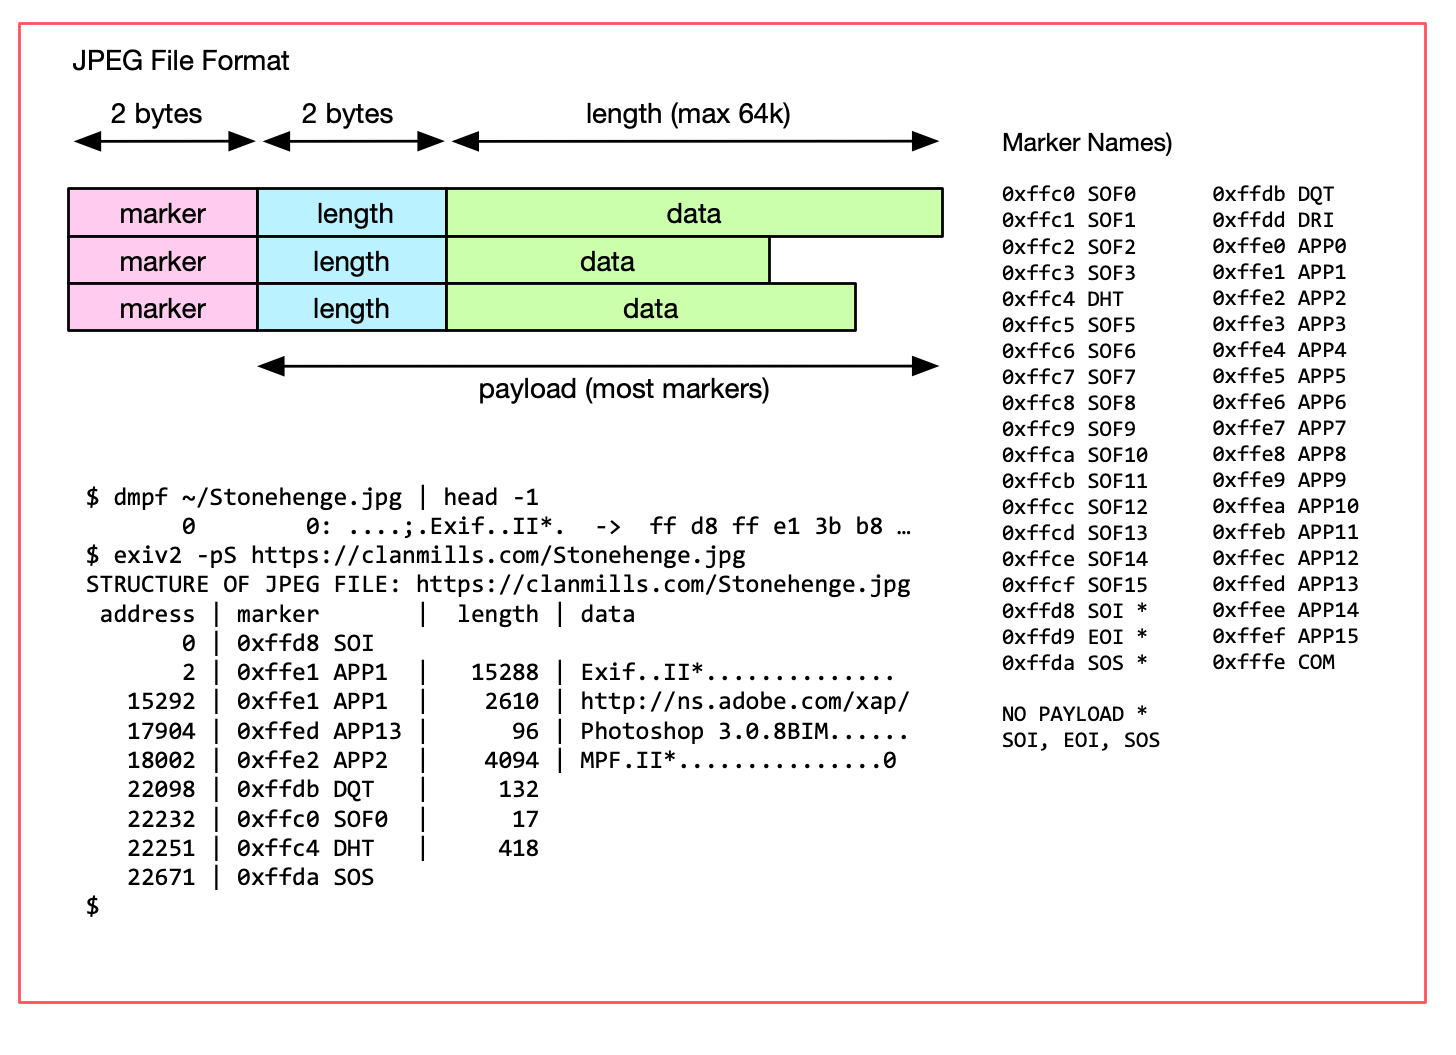
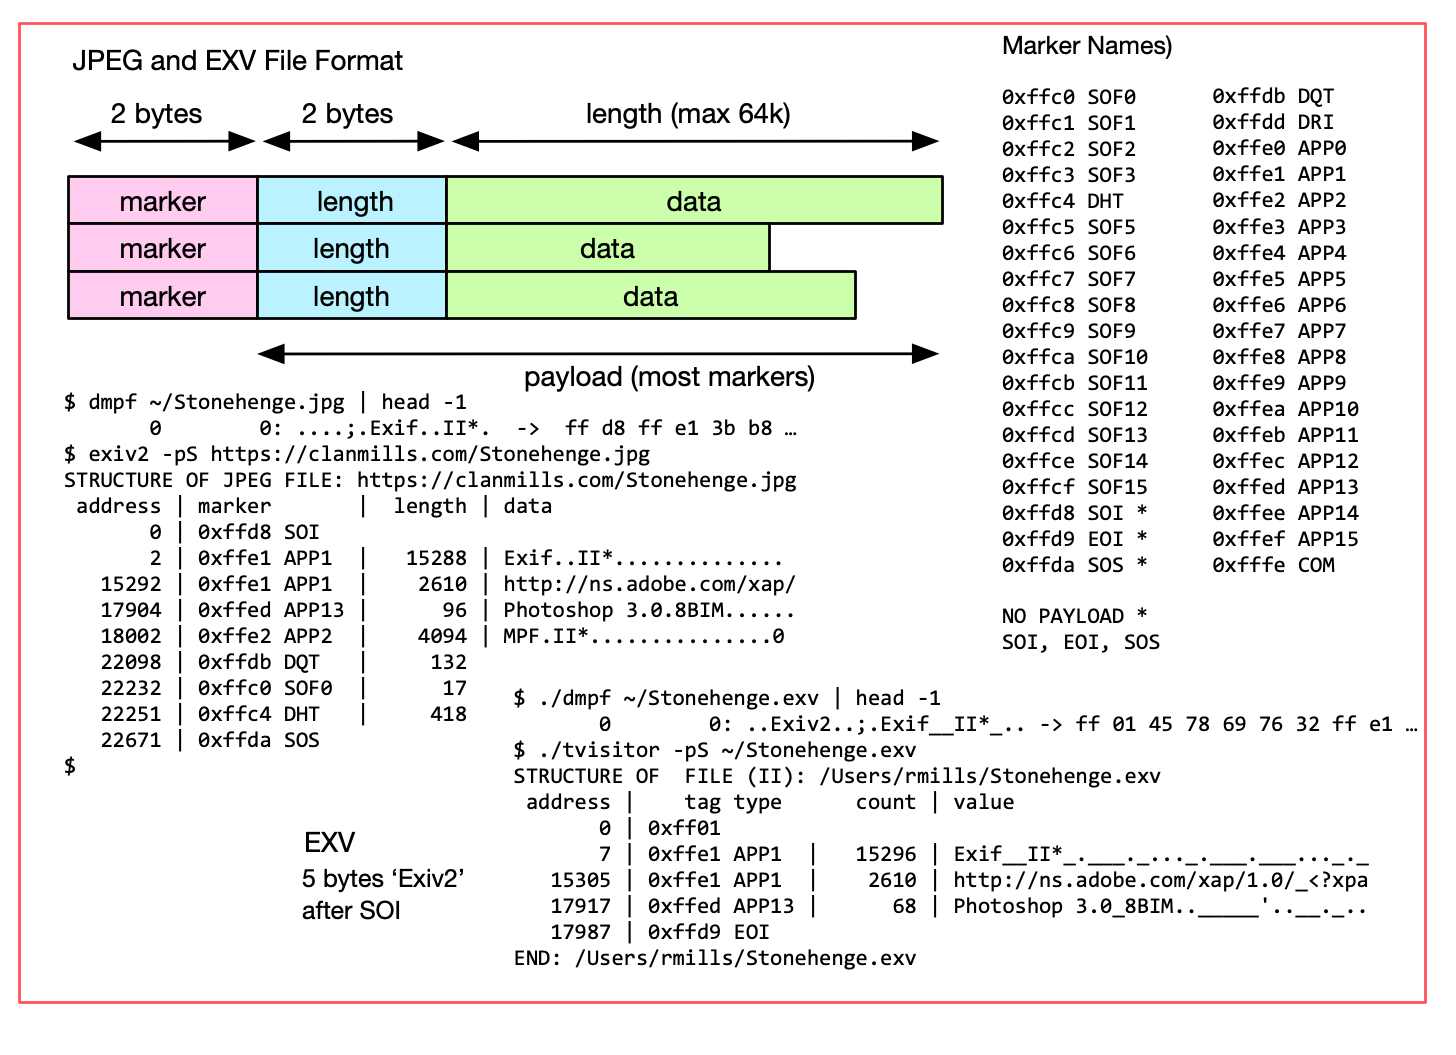
adding documentation and support for .EXV

diff --git a/book/tvisitor.cpp b/book/tvisitor.cpp
@@ -203,6 +203,16 @@ public:
     }
     int  strcmp   (const char* str) { return ::strcmp((const char*)pData_,str);}
     bool strequals(const char* str) { return strcmp(str)==0                   ;}
+    bool is       (const char* str) {
+        size_t l      = ::strlen(str);
+        bool   result = l == size_;
+        size_t i = 0 ;
+        while ( result && i < l ) {
+            result = str[i]==pData_[i];
+            i++;
+        }
+        return result;
+    }
 
     std::string toString(size_t offset,type_e type,uint16_t count,endian_e endian);
     std::string binaryToString(size_t start,size_t size);
@@ -1209,12 +1219,25 @@ void TiffImage::visit(Visitor& visitor,TagDict& tagDict)
 
 bool JpegImage::valid()
 {
+    bool result = false;
     IoRestorer save(io(),0);
     byte   h[2];
-    size_t n = io_.read(h,2);
-    bool result = n == 2 && h[0] == 0xff && h[1] == 0xd8;
-//  std::cout << stringFormat("%ld %#x %#x result = %s\n",n,h[0],h[1],result?"true":"false");
-    if ( result ) format_ = "JPEG";
+    io_.read(h,2);
+    if ( h[0] == 0xff && h[1] == 0xd8 ) { // .JPEG
+        start_  = 0;
+        format_ = "JPEG";
+        endian_ = keLittle;
+        result  = true;
+    } else if  ( h[0] == 0xff && h[1]==0x01 ) { // .EXV
+        DataBuf buf(5);
+        io_.read(buf);
+        if ( buf.is("Exiv2") ) {
+            start_ = 7;
+            format_ = "EXV";
+            endian_ = keLittle;
+            result = true;
+        }
+    }
     return result;
 }
 

diff --git a/book/IMaEA.md b/book/IMaEA.md
@@ -76,6 +76,7 @@ Incidentally, later in 2008, Dennis offered me a contract to port his company's 
 [https://clanmills.com/articles/gpsexiftags/](https://clanmills.com/articles/gpsexiftags/)
 
 I have never been employed to work on Metadata.  I was a Senior Computer Scientist at Adobe for more than 10 years, however I was never involved with XMP or Metadata.
+
 [TOC](#TOC) [Foreward](#foreword)
 
 
@@ -162,7 +163,7 @@ The following summaries of the file formats are provided to help the reader unde
 
 ![jpegs.png](jpegs.png)
 
-A Jpeg and a .exv are almost the same thing, however most graphics applications will reject a .exv because it has no graphics.  ExifTool supports .exv files.
+A Jpeg and a .exv are almost the same thing, however most graphics applications will reject a .exv because it not a valid JPEG.  ExifTool supports .exv files.  In tvisitor.cpp, class JpegImage handles both and the only difference is respected in JpegImage::valid();
 
 ```bash
 $ exiv2 -pS ~/Stonehenge.jpg
